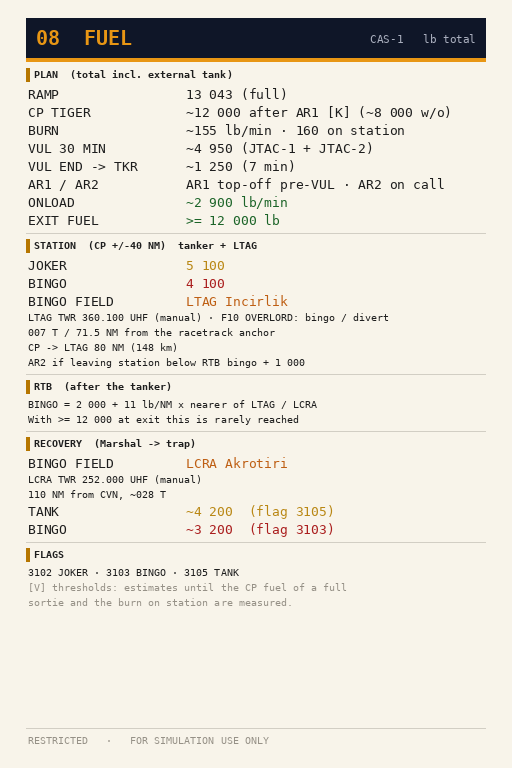
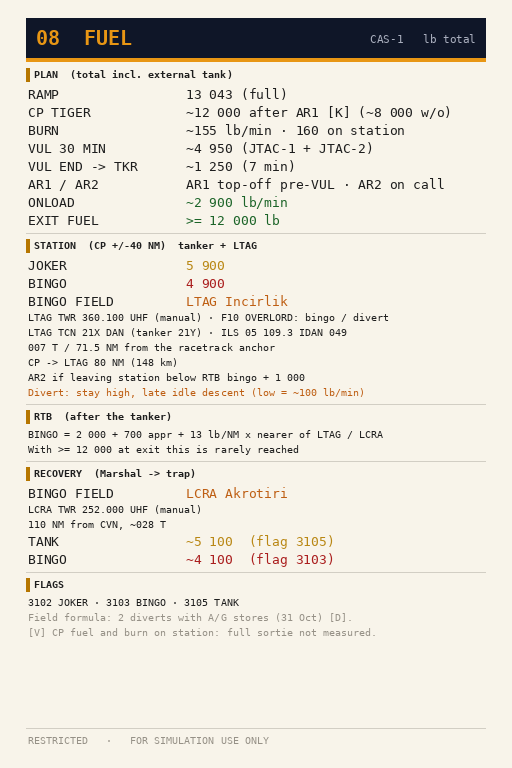
Fuel model from two measured diverts: Flight_Timeline v1.1.3, kneeboard 08 v3.4.1, TEST-DIV 2800 lb
- Field leg = 2,000 reserve + 700 approach + 13 lb/NM (TEST-DIV 2026-10-31: approach 686 / 709 lb,
  12.0 / 14.5 lb/NM with A/G stores). Same formula for RTB and RECOVERY (Onur).
- Station BINGO 4,900 / JOKER 5,900; recovery (LCRA ~110 NM) BINGO ~4,100 / TANK ~5,100.
- Kneeboard 08: new thresholds, LTAG TACAN 21X DAN, ILS 05 109.3, divert profile note.
- make_test_variant v1.3.1: TEST-DIV internal fuel 2,800 lb (~5,000 total).

Claude-Session: https://claude.ai/code/session_01Jqre9vkUep9kjMh182pS1Z

diff --git a/tools/make_kneeboard.py b/tools/make_kneeboard.py
@@ -1,4 +1,6 @@
-# make_kneeboard.py | v3.4.0
+# make_kneeboard.py | v3.4.1
+# v3.4.1: 08 FUEL thresholds = Flight_Timeline v1.1.3 (2 000 + 700 + 13 lb/NM; station 4 900 / 5 900,
+#         recovery ~4 100 / ~5 100); LTAG TACAN 21X DAN, ILS 05 109.3 IDAN; divert profile note.
 # v3.4.0: AAR on 29.92 / flight level (Comms_Director v1.7.4, ATP-56 2.2a): 03 and 07 say FL150; 07 ALTIMETER
 #         block rewritten, RV block names the OVERLORD vector and the F10 Judy item, overtake score 15-30 kt -1,
 #         > 30 kt -2 (AAR_Monitor v1.1.2). Mode 3 in the RV initial call = 01 SQUAWK 2042.
@@ -379,24 +381,26 @@ def fuel():
     c.kv("AR1 / AR2", "AR1 top-off pre-VUL · AR2 on call")
     c.kv("ONLOAD", "~2 900 lb/min", "g"); c.kv("EXIT FUEL", ">= 12 000 lb", "g")
     c.rule(); c.head("STATION  (CP +/-40 NM)  tanker + LTAG")
-    c.kv("JOKER", "5 100", "y"); c.kv("BINGO", "4 100", "r")
+    c.kv("JOKER", "5 900", "y"); c.kv("BINGO", "4 900", "r")
     c.kv("BINGO FIELD", "LTAG Incirlik", "o")
     c.line("LTAG TWR 360.100 UHF (manual) · F10 OVERLORD: bingo / divert", "t", F10)
+    c.line("LTAG TCN 21X DAN (tanker 21Y) · ILS 05 109.3 IDAN 049", "t", F10)
     c.line("007 T / 71.5 NM from the racetrack anchor", "t", F10)
     c.line("CP -> LTAG 80 NM (148 km)", "t", F10)
     c.line("AR2 if leaving station below RTB bingo + 1 000", "t", F10)
+    c.line("Divert: stay high, late idle descent (low = ~100 lb/min)", "o", F10)
     c.rule(); c.head("RTB  (after the tanker)")
-    c.line("BINGO = 2 000 + 11 lb/NM x nearer of LTAG / LCRA", "t", F10)
+    c.line("BINGO = 2 000 + 700 appr + 13 lb/NM x nearer of LTAG / LCRA", "t", F10)
     c.line("With >= 12 000 at exit this is rarely reached", "t", F10)
     c.rule(); c.head("RECOVERY  (Marshal -> trap)")
     c.kv("BINGO FIELD", "LCRA Akrotiri", "o")
     c.line("LCRA TWR 252.000 UHF (manual)", "t", F10)
     c.line("110 NM from CVN, ~028 T", "t", F10)
-    c.kv("TANK", "~4 200  (flag 3105)", "y"); c.kv("BINGO", "~3 200  (flag 3103)", "r")
+    c.kv("TANK", "~5 100  (flag 3105)", "y"); c.kv("BINGO", "~4 100  (flag 3103)", "r")
     c.rule(); c.head("FLAGS")
     c.line("3102 JOKER · 3103 BINGO · 3105 TANK", "t", F10)
-    c.line("[V] thresholds: estimates until the CP fuel of a full", "m", F10)
-    c.line("sortie and the burn on station are measured.", "m", F10)
+    c.line("Field formula: 2 diverts with A/G stores (31 Oct) [D].", "m", F10)
+    c.line("[V] CP fuel and burn on station: full sortie not measured.", "m", F10)
     return c
 
 if __name__ == "__main__":

diff --git a/tools/make_test_variant.py b/tools/make_test_variant.py
@@ -1,4 +1,6 @@
-# make_test_variant.py | v1.3.0
+# make_test_variant.py | v1.3.1
+# v1.3.1: --div-internal-lb default 2000 -> 2800 (~5 000 lb total, just above the station BINGO 4 900 of
+#         Flight_Timeline v1.1.3).
 # v1.3.0: --start DIV (OVERLORD divert test, Comms_Director v1.7.3): the J2 start (over CP TIGER, heading to
 #         the JTAC-2 target, first point "AIRSTART J2 DIV" so CD still takes the J2 air start) with internal
 #         fuel --div-internal-lb (2000 lb; + full FPU-8A ~2230 = ~4 200 lb, just above the station BINGO 4 100).
@@ -206,7 +208,7 @@ def main():
     ap.add_argument("--aar-alt-ft", type=int, default=20000)
     ap.add_argument("--aar-kt", type=int, default=410)
     ap.add_argument("--aar-internal-lb", type=int, default=5770)
-    ap.add_argument("--div-internal-lb", type=int, default=2000)
+    ap.add_argument("--div-internal-lb", type=int, default=2800)
     ap.add_argument("--alt-ft", type=int, default=24000)
     ap.add_argument("--kt", type=int, default=410)
     ap.add_argument("--nm", type=float, default=30)
